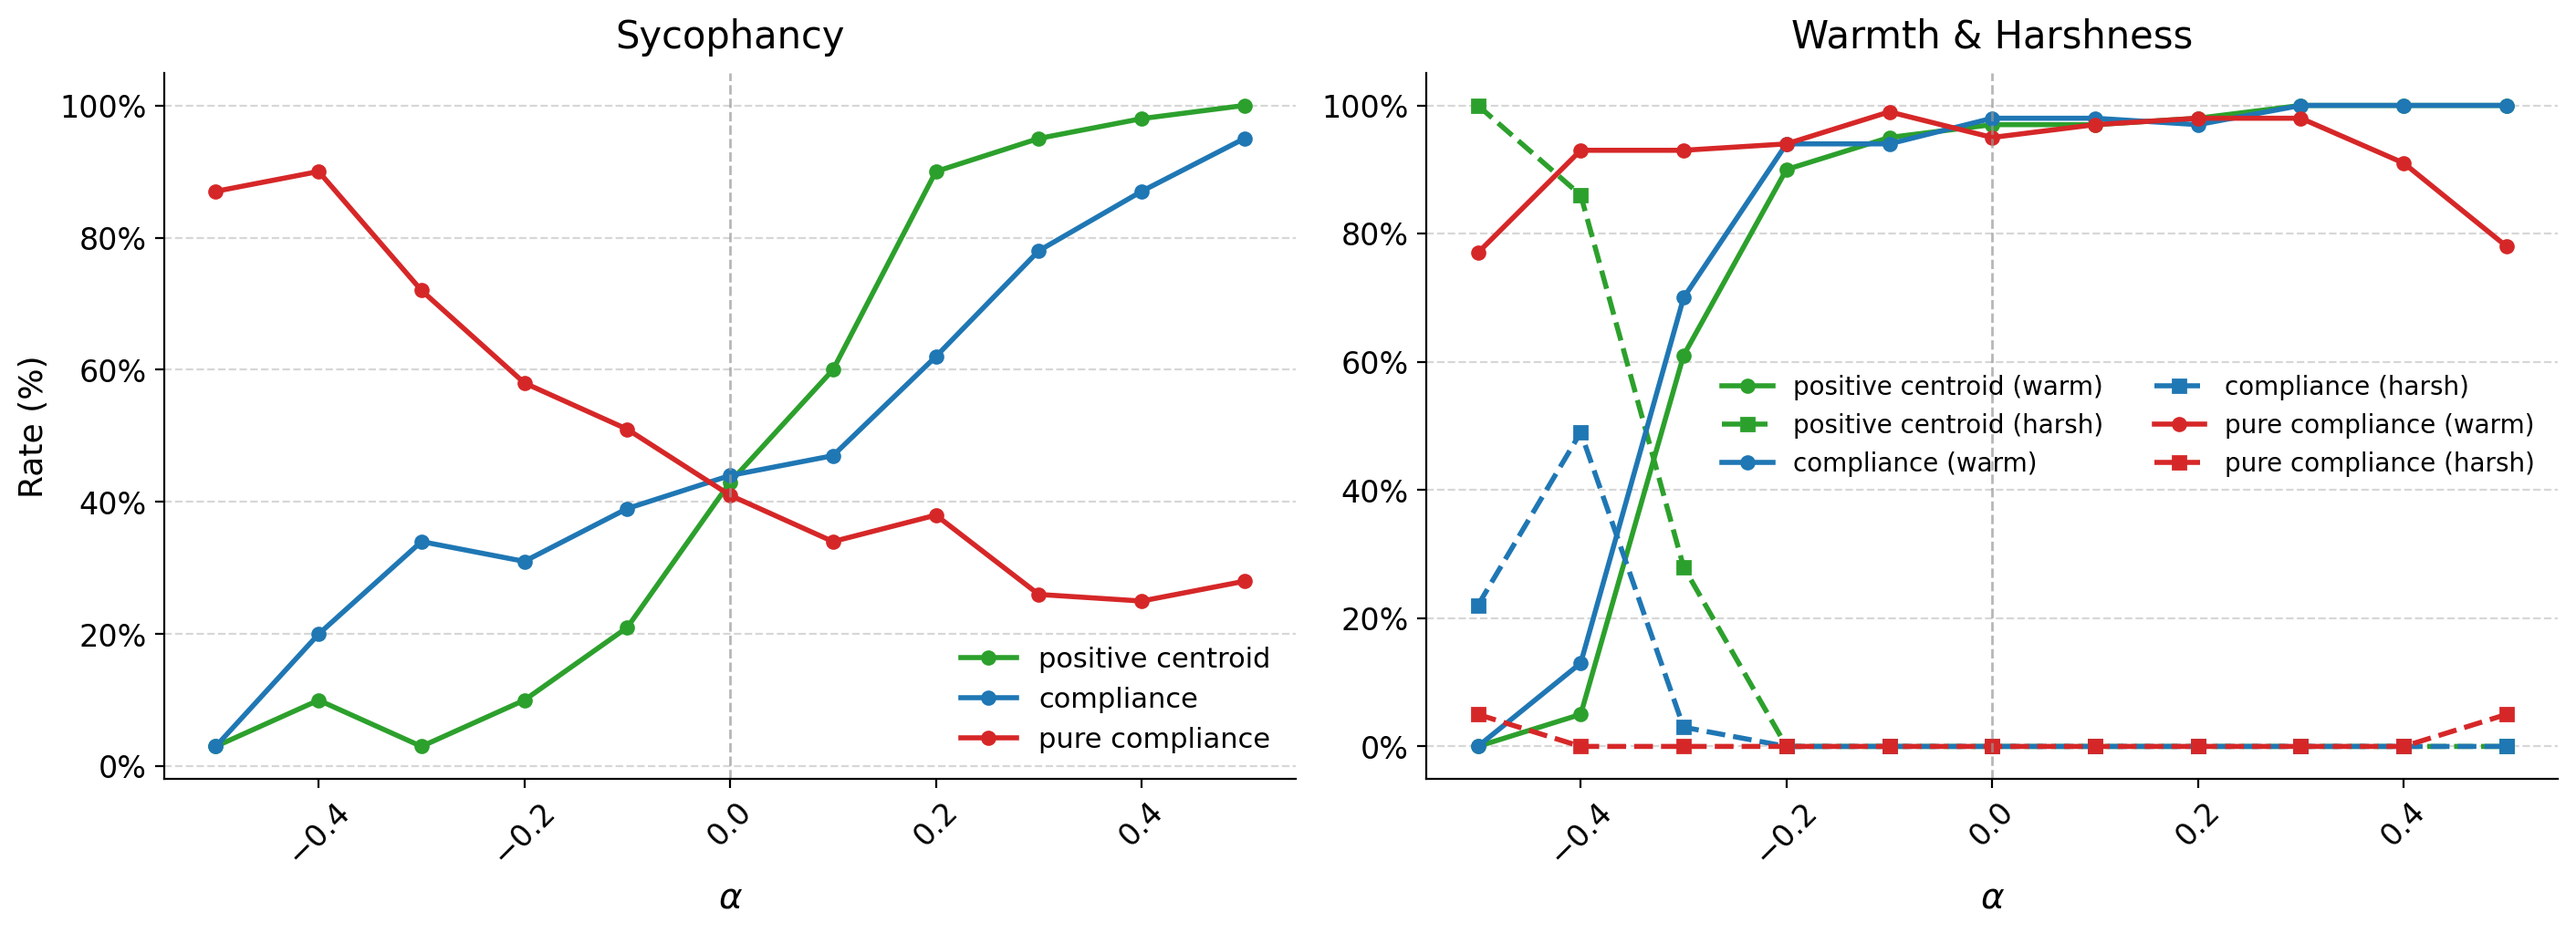
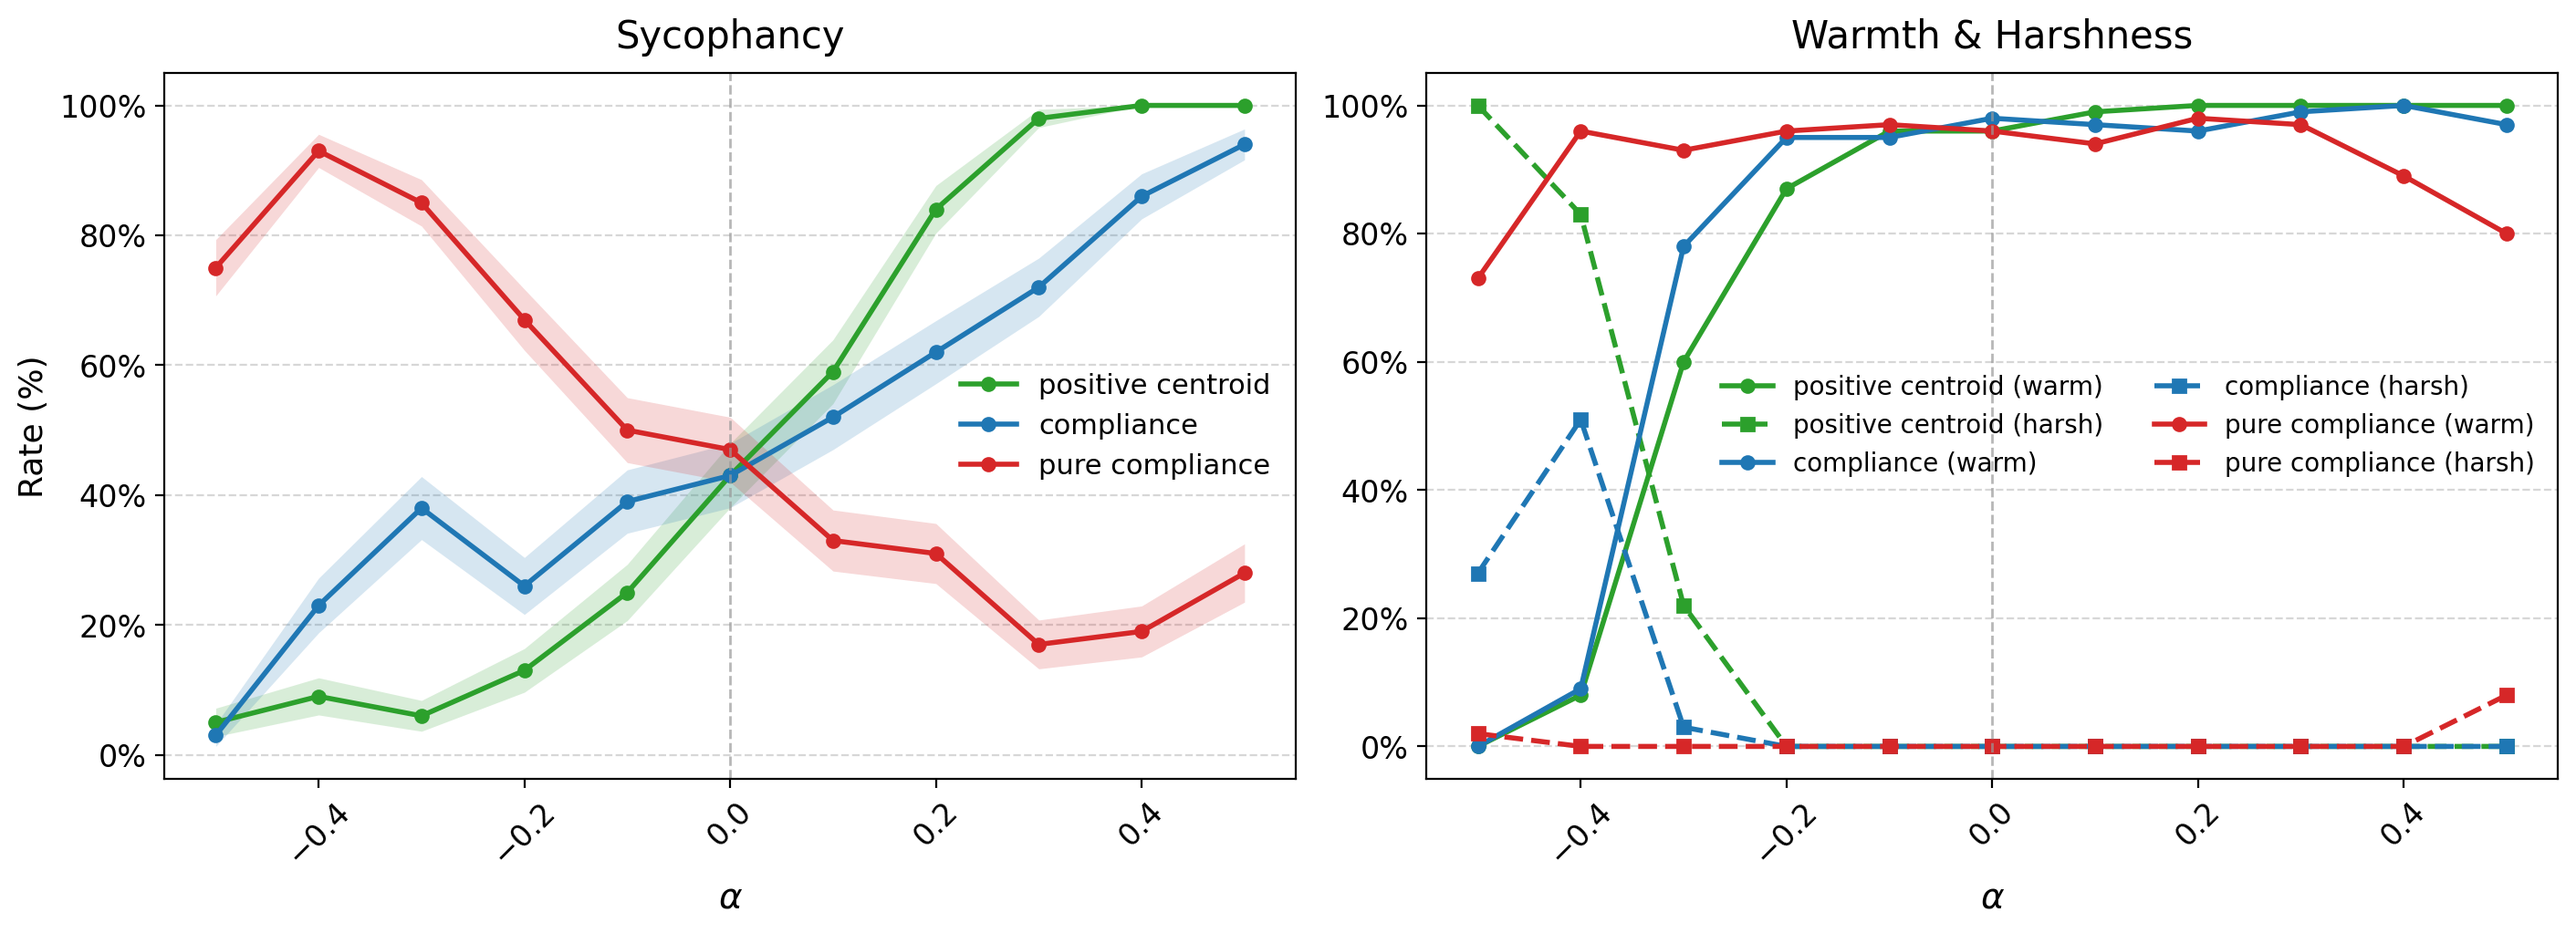
Fixing the readme

diff --git a/scripts/eval/evaluate_emotion_vec.py b/scripts/eval/evaluate_emotion_vec.py
@@ -21,7 +21,7 @@ LAYER = 40
 data_path    = PROJECT_ROOT / "results" / "qwen_v2" / "linear_probes_v2"
 core_dir     = data_path / f"layer_{LAYER}" / "pca_denoised"
 conflict_dir = data_path / "all_layers_additional" / f"layer_{LAYER}" / "pca_denoised"
-result_path  = PROJECT_ROOT / "results" / "qwen_v2" / "cluster_data"
+result_path  = PROJECT_ROOT / "results" / "qwen_v2" / "cluster_data_new"
 
 
 def get_args():

diff --git a/README.md b/README.md
@@ -3,7 +3,7 @@
 **Mapping Sycophancy Inside an LLM's Emotion Space**
 
 <p align="center">
-  <img src="results/figures/emotion_vectors_layer40_qwen_gemma.png" width="800" alt="PCA of emotion directions in Qwen2.5-32B and Gemma3-27B, with PC1 recovering valence">
+  <img src="results/figures/emotion_pca_2d_qwen_gemma.png" width="800" alt="PCA of emotion directions in Qwen2.5-32B and Gemma3-27B, with PC1 recovering valence">
 </p>
 
 <p align="center"><em>Emotion directions for Qwen2.5-32B (left) and Gemma3-27B (right), embedded in the top two principal components of the per-emotion mean-difference vectors. PC1 recovers valence: warm emotions (happy, loving, proud) on one side, threat emotions (afraid, angry, desperate) on the other. Circles are core emotions; diamonds are conflict-avoidance emotions. The conflict-avoidance set does not form one cluster: it splits into a <strong>compliance</strong> sub-group (approval-seeking, validation-seeking, people-pleasing) on the positive-valence side and a <strong>distress</strong> sub-group (ashamed, socially anxious, conflict-avoidant) on the negative side. Steering toward broad positive valence raises sycophancy in both models. Steering toward the compliance direction with positive valence projected out <strong>lowers</strong> it, and keeps responses warm. HARSH stays at 0% across the pure-compliance sweep.</em></p>
@@ -48,8 +48,10 @@ All steering uses layer 40 (Qwen) / layer 41 (Gemma), judged by Claude Haiku 4.5
 The harshness trade-off **only partially transfers**: it appears in Qwen at strongly negative α for positive centroid steering, but Gemma shows no harshness at any setting.
 
 <p align="center">
-  <img src="results/figures/singleturn_label40.png" width="700" alt="Qwen single-turn steering: positive valence vs pure compliance">
+  <img src="results/figures/steering_approval.png" width="800" alt="Sycophancy and warmth vs steering strength for compliance, pure compliance, and pure core positive directions in Qwen2.5-32B and Gemma3-27B">
 </p>
+
+<p align="center"><em>Compliance vs pure-compliance vs pure-positive decomposition.</em></p>
 
 #### Qwen2.5-32B — single-turn (layer 40)
 
